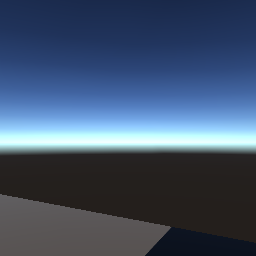
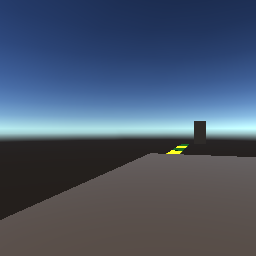
most of its working.....a little is broke....
taking photos having them come out

diff --git a/Pomegranates2025/Assets/Scripts/Photo.cs b/Pomegranates2025/Assets/Scripts/Photo.cs
@@ -14,7 +14,7 @@ public class Photo : MonoBehaviour
     int frameCount = 0;
 
     public RawImage displayImage;
-    private List<Texture2D> photos = new List<Texture2D>();
+    public List<Texture2D> photos = new List<Texture2D>();
     private int currentPhotoIndex = 0;
 
     // Start is called before the first frame update
@@ -26,10 +26,24 @@ public class Photo : MonoBehaviour
     // Update is called once per frame
     void Update()
     {
-        if (Input.GetKeyDown(KeyCode.Q))
+        //if (photos.Count == 0) return;
+
+        if (Input.GetKeyDown(KeyCode.Z))
         {
             Debug.Log("hit mouse");
             CaptureFrame();
+        }
+
+        if(Input.GetKeyDown (KeyCode.E))
+        {
+            Debug.Log("right arrow");
+            currentPhotoIndex = (currentPhotoIndex + 1) % photos.Count;
+            ShowPhoto(currentPhotoIndex);
+        }
+        if(Input.GetKeyDown(KeyCode.Q))
+        {
+            currentPhotoIndex = (currentPhotoIndex - 1) % photos.Count % photos.Count;
+            ShowPhoto(currentPhotoIndex);
         }
     }
 
@@ -37,7 +51,7 @@ public class Photo : MonoBehaviour
     {
         //string path = Application.dataPath + "/StreamingAssets/SavedFrames/";
         //tell unity where to go
-        string path = Path.Combine(Application.streamingAssetsPath, "/SavedFrames");
+        string path = Path.Combine(Application.streamingAssetsPath, "SavedFrames");
 
         //if it doesnt exist then create it
         if (!Directory.Exists(path))
@@ -75,11 +89,13 @@ public class Photo : MonoBehaviour
         File.WriteAllBytes(filePath, bytes);
 
         //add to gallery
+        photos.Add(image);
+        currentPhotoIndex = photos.Count - 1;
+        ShowPhoto(currentPhotoIndex);
 
 
-
-        string[] files = Directory.GetFiles(filePath, "*.png");
-        Debug.Log("save");
+        //string[] files = Directory.GetFiles(filePath, "*.png");
+        //Debug.Log("save");
         //increase so next screen shot gets new name
         frameCount++;
 
@@ -89,5 +105,24 @@ public class Photo : MonoBehaviour
       
     }
 
+    void LoadPhotos()
+    {
+        string folderPath = Path.Combine(Application.streamingAssetsPath, "SavedPhotos");
+        if (!Directory.Exists(folderPath)) return;
+
+        string[] files = Directory.GetFiles(folderPath, "*.png");
+        foreach (string file in files)
+        {
+            byte[] bytes = File.ReadAllBytes(file);
+            Texture2D tex = new Texture2D(2, 2);
+            tex.LoadImage(bytes);
+            photos.Add(tex);
+        }
+    }
     
+    void ShowPhoto(int index)
+    {
+        if(index < 0 || index >= photos.Count) return;
+        displayImage.texture = photos[index];
+    }
 }
